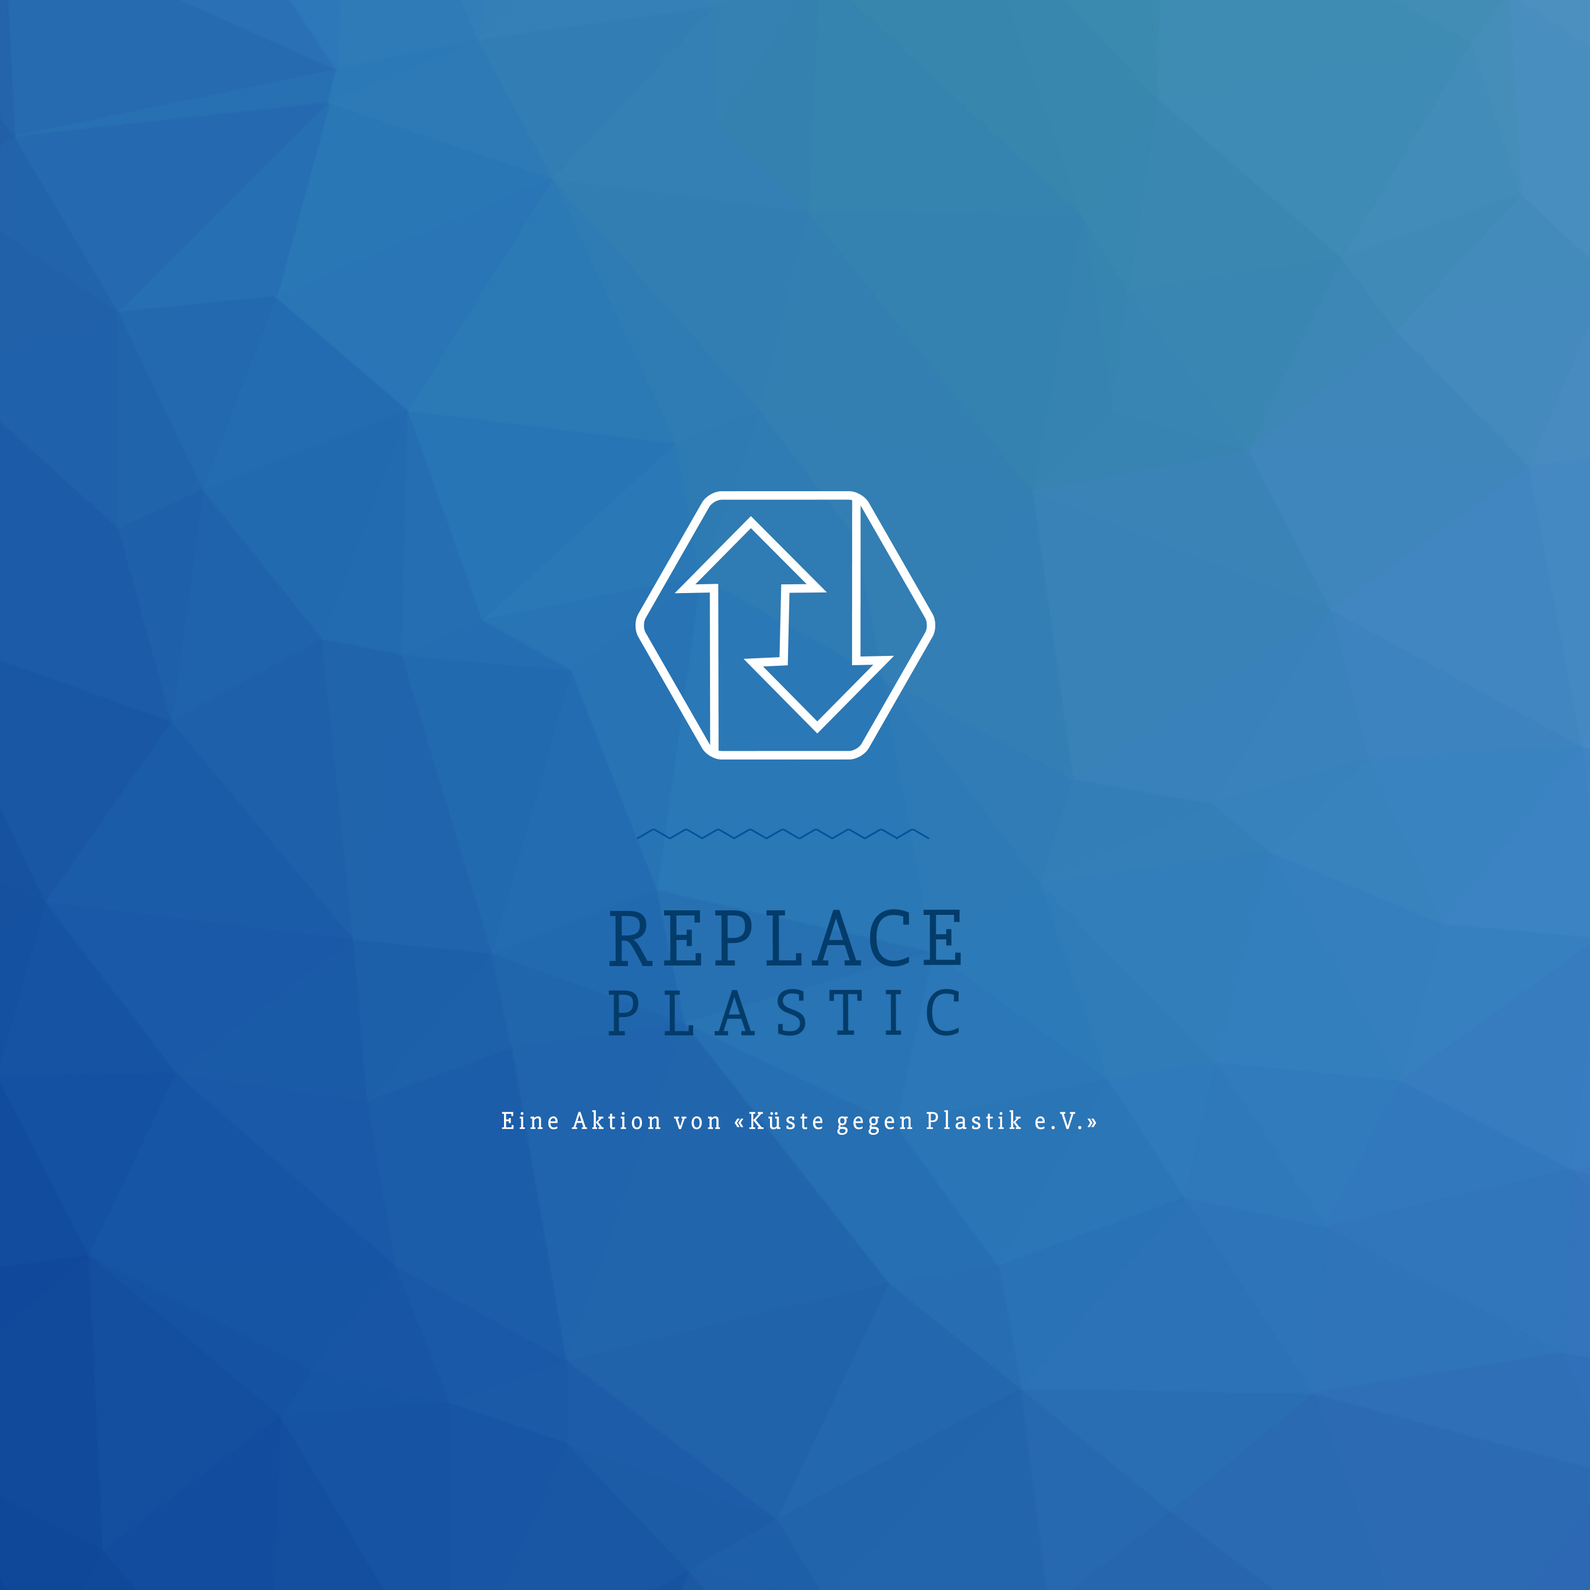
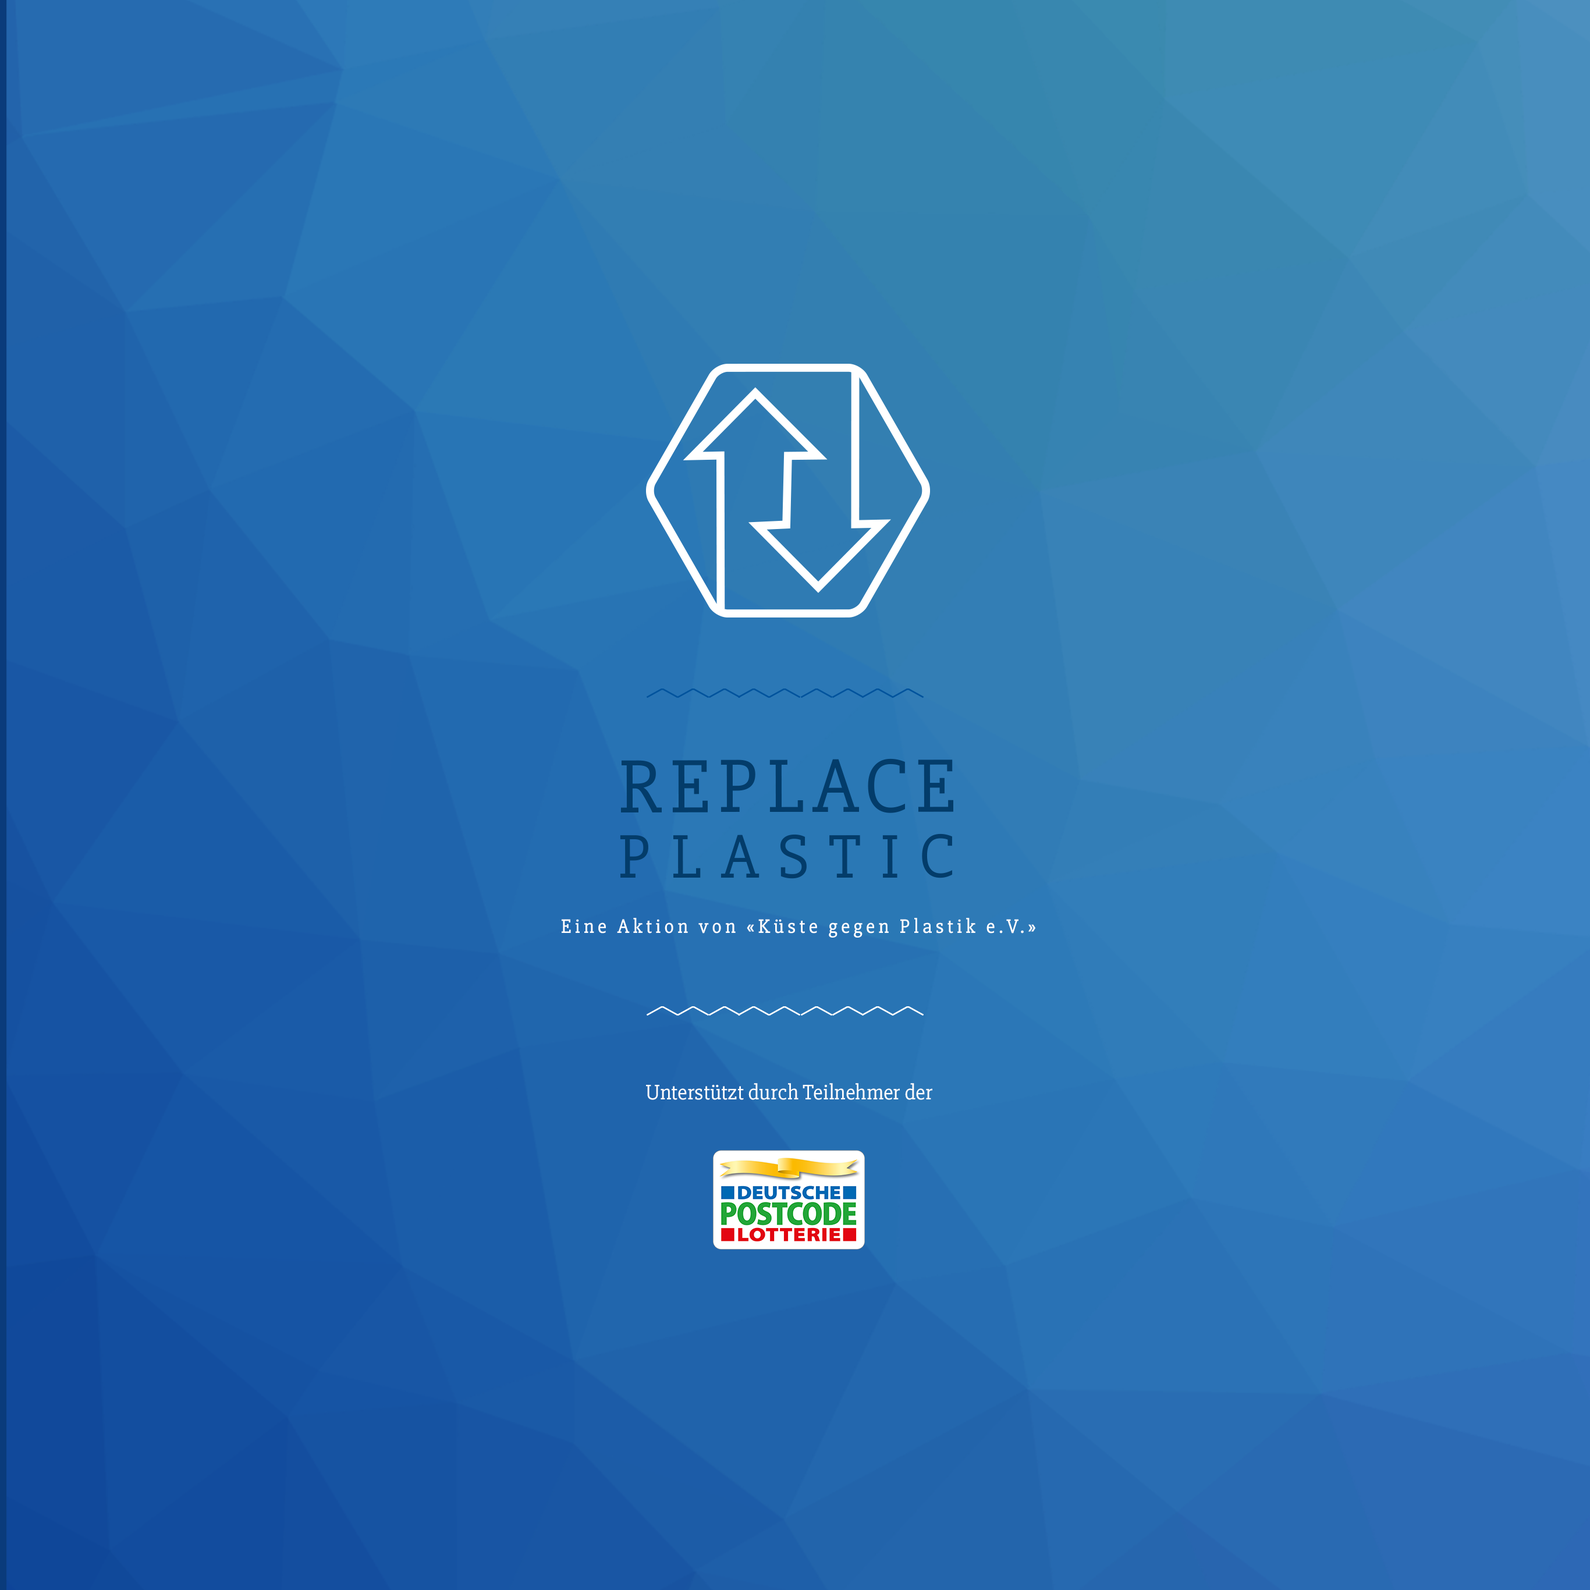
Postcode Lotterie Danksagung, Bugfixes

Changed region(s): [[0.3734, 0.2178, 0.6223, 0.6534], [0.0, 0.0, 0.0311, 1.0], [0.3734, 0.6845, 0.5911, 0.8089]]

diff --git a/public/js/SocialSharing.js b/public/js/SocialSharing.js
@@ -1,0 +1,146 @@
+function SocialSharing() {
+} 
+
+// Override this method (after deviceready) to set the location where you want the iPad popup arrow to appear.
+// If not overridden with different values, the popup is not used. Example:
+// 
+//   window.plugins.socialsharing.iPadPopupCoordinates = function() {
+//     return "100,100,200,300";
+//   };
+SocialSharing.prototype.iPadPopupCoordinates = function () {
+  // left,top,width,height
+  return "-1,-1,-1,-1";
+};
+
+SocialSharing.prototype.setIPadPopupCoordinates = function (coords) {
+  // left,top,width,height
+  cordova.exec(function() {}, this._getErrorCallback(function() {}, "setIPadPopupCoordinates"), "SocialSharing", "setIPadPopupCoordinates", [coords]);
+};
+
+SocialSharing.prototype.available = function (callback) {
+  cordova.exec(function (avail) {
+    callback(avail ? true : false);
+  }, null, "SocialSharing", "available", []);
+};
+
+// this is the recommended way to share as it is the most feature-rich with respect to what you pass in and get back
+SocialSharing.prototype.shareWithOptions = function (options, successCallback, errorCallback) {
+  cordova.exec(successCallback, this._getErrorCallback(errorCallback, "shareWithOptions"), "SocialSharing", "shareWithOptions", [options]);
+};
+
+SocialSharing.prototype.shareW3C = function (sharedata) {
+  return new Promise(function(resolve, reject) {
+    var options = {
+      subject: sharedata.title,
+      message: sharedata.text,
+      url: sharedata.url
+    };
+    if(sharedata.hasOwnProperty('title') ||
+        sharedata.hasOwnProperty('text') ||
+        sharedata.hasOwnProperty('url')) {
+          cordova.exec(resolve, reject, "SocialSharing", "shareWithOptions", [options]);
+    } else {
+      reject();
+    }
+  });
+};
+
+SocialSharing.prototype.share = function (message, subject, fileOrFileArray, url, successCallback, errorCallback) {
+  cordova.exec(successCallback, this._getErrorCallback(errorCallback, "share"), "SocialSharing", "share", [message, subject, this._asArray(fileOrFileArray), url]);
+};
+
+SocialSharing.prototype.shareViaTwitter = function (message, file /* multiple not allowed by twitter */, url, successCallback, errorCallback) {
+  var fileArray = this._asArray(file);
+  var ecb = this._getErrorCallback(errorCallback, "shareViaTwitter");
+  if (fileArray.length > 1) {
+    ecb("shareViaTwitter supports max one file");
+  } else {
+    cordova.exec(successCallback, ecb, "SocialSharing", "shareViaTwitter", [message, null, fileArray, url]);
+  }
+};
+
+SocialSharing.prototype.shareViaFacebook = function (message, fileOrFileArray, url, successCallback, errorCallback) {
+  cordova.exec(successCallback, this._getErrorCallback(errorCallback, "shareViaFacebook"), "SocialSharing", "shareViaFacebook", [message, null, this._asArray(fileOrFileArray), url]);
+};
+
+SocialSharing.prototype.shareViaFacebookWithPasteMessageHint = function (message, fileOrFileArray, url, pasteMessageHint, successCallback, errorCallback) {
+  pasteMessageHint = pasteMessageHint || "If you like you can paste a message from your clipboard";
+  cordova.exec(successCallback, this._getErrorCallback(errorCallback, "shareViaFacebookWithPasteMessageHint"), "SocialSharing", "shareViaFacebookWithPasteMessageHint", [message, null, this._asArray(fileOrFileArray), url, pasteMessageHint]);
+};
+
+SocialSharing.prototype.shareViaWhatsApp = function (message, fileOrFileArray, url, successCallback, errorCallback) {
+  cordova.exec(successCallback, this._getErrorCallback(errorCallback, "shareViaWhatsApp"), "SocialSharing", "shareViaWhatsApp", [message, null, this._asArray(fileOrFileArray), url, null, null]);
+};
+
+SocialSharing.prototype.shareViaWhatsAppToReceiver = function (receiver, message, fileOrFileArray, url, successCallback, errorCallback) {
+  cordova.exec(successCallback, this._getErrorCallback(errorCallback, "shareViaWhatsAppToReceiver"), "SocialSharing", "shareViaWhatsApp", [message, null, this._asArray(fileOrFileArray), url, receiver, null]);
+};
+
+SocialSharing.prototype.shareViaWhatsAppToPhone = function (phone, message, fileOrFileArray, url, successCallback, errorCallback) {
+  cordova.exec(successCallback, this._getErrorCallback(errorCallback, "shareViaWhatsAppToPhone"), "SocialSharing", "shareViaWhatsApp", [message, null, this._asArray(fileOrFileArray), url, null, phone]);
+};
+
+SocialSharing.prototype.shareViaSMS = function (options, phonenumbers, successCallback, errorCallback) {
+  var opts = options;
+  if (typeof options === "string") {
+    opts = {"message":options}; // for backward compatibility as the options param used to be the message
+  }
+  cordova.exec(successCallback, this._getErrorCallback(errorCallback, "shareViaSMS"), "SocialSharing", "shareViaSMS", [opts, phonenumbers]);
+};
+
+SocialSharing.prototype.shareViaEmail = function (message, subject, toArray, ccArray, bccArray, fileOrFileArray, successCallback, errorCallback) {
+  cordova.exec(successCallback, this._getErrorCallback(errorCallback, "shareViaEmail"), "SocialSharing", "shareViaEmail", [message, subject, this._asArray(toArray), this._asArray(ccArray), this._asArray(bccArray), this._asArray(fileOrFileArray)]);
+};
+
+SocialSharing.prototype.canShareVia = function (via, message, subject, fileOrFileArray, url, successCallback, errorCallback) {
+  cordova.exec(successCallback, this._getErrorCallback(errorCallback, "canShareVia"), "SocialSharing", "canShareVia", [message, subject, this._asArray(fileOrFileArray), url, via]);
+};
+
+SocialSharing.prototype.canShareViaEmail = function (successCallback, errorCallback) {
+  cordova.exec(successCallback, this._getErrorCallback(errorCallback, "canShareViaEmail"), "SocialSharing", "canShareViaEmail", []);
+};
+
+SocialSharing.prototype.shareViaInstagram = function (message, fileOrFileArray, successCallback, errorCallback) {
+  cordova.exec(successCallback, this._getErrorCallback(errorCallback, "shareViaInstagram"), "SocialSharing", "shareViaInstagram", [message, null, this._asArray(fileOrFileArray), null]);
+};
+
+SocialSharing.prototype.shareVia = function (via, message, subject, fileOrFileArray, url, successCallback, errorCallback) {
+  cordova.exec(successCallback, this._getErrorCallback(errorCallback, "shareVia"), "SocialSharing", "shareVia", [message, subject, this._asArray(fileOrFileArray), url, via]);
+};
+
+SocialSharing.prototype.saveToPhotoAlbum = function (fileOrFileArray, successCallback, errorCallback) {
+  cordova.exec(successCallback, this._getErrorCallback(errorCallback, "saveToPhotoAlbum"), "SocialSharing", "saveToPhotoAlbum", [this._asArray(fileOrFileArray)]);
+};
+
+SocialSharing.prototype._asArray = function (param) {
+  if (param == null) {
+    param = [];
+  } else if (typeof param === 'string') {
+    param = new Array(param);
+  }
+  return param;
+};
+
+SocialSharing.prototype._getErrorCallback = function (ecb, functionName) {
+  if (typeof ecb === 'function') {
+    return ecb;
+  } else {
+    return function (result) {
+      console.log("The injected error callback of '" + functionName + "' received: " + JSON.stringify(result));
+    }
+  }
+};
+
+SocialSharing.install = function () {
+  if (!window.plugins) {
+    window.plugins = {};
+  }
+
+  window.plugins.socialsharing = new SocialSharing();
+  navigator.share = window.plugins.socialsharing.shareW3C;
+  return window.plugins.socialsharing;
+};
+
+if(typeof cordova !== 'undefined') {
+    cordova.addConstructor(SocialSharing.install);
+}

diff --git a/src/components/shared/KgpHeader/KgpMenu/KgpMenu.vue b/src/components/shared/KgpHeader/KgpMenu/KgpMenu.vue
@@ -13,12 +13,21 @@
     </button>
     <div v-bind:class="{ 'menu__items--open' : menuOpen }" id="menu__items" class="menu__items">
         <ul class="menu__nav">
-            <li v-for="menuitem in menuitems"  v-on:click="closeMenu" class="menu__item">
+            <li v-for="menuitem in menuitems" v-bind:key="menuitem.title" v-on:click="closeMenu" class="menu__item">
                 <router-link class="menu__link" v-bind:to="{ name : menuitem.name }">
                     {{ menuitem.title }} <span class="menu__counter" v-if="menuitem.name == 'History' && historyCount > 0">{{ historyCount }}</span>
                 </router-link>
             </li>
         </ul>
+        <button v-if="isApp()" v-on:click="share()" class="menu__share">
+            <span class="menu__shareinner">
+                <svg xmlns="http://www.w3.org/2000/svg" xmlns:xlink="http://www.w3.org/1999/xlink" viewBox="0 0 100 125" version="1.1" x="0px" y="0px">
+                    <g stroke="none" stroke-width="1" fill="none" fill-rule="evenodd"><path d="M65.63645,75.10205 C61.86695,75.10205 58.80095,72.03555 58.80095,68.26605 C58.80095,64.49705 61.86695,61.43055 65.63645,61.43055 C69.40595,61.43055 72.47245,64.49705 72.47245,68.26605 C72.47245,72.03555 69.40595,75.10205 65.63645,75.10205 M27.87795,51.18905 C27.87795,47.41955 30.94445,44.35305 34.71345,44.35305 C38.48295,44.35305 41.54945,47.41955 41.54945,51.18905 C41.54945,54.95805 38.48295,58.02455 34.71345,58.02455 C30.94445,58.02455 27.87795,54.95805 27.87795,51.18905 M65.63645,25.37805 C69.40595,25.37805 72.47245,28.44455 72.47245,32.21355 C72.47245,35.98305 69.40595,39.04955 65.63645,39.04955 C61.86695,39.04955 58.80095,35.98305 58.80095,32.21355 C58.80095,28.44455 61.86695,25.37805 65.63645,25.37805 M65.63645,55.05255 C61.47495,55.05255 57.75845,56.98855 55.33445,60.00505 L47.03545,55.95205 C47.60945,54.47305 47.92745,52.86805 47.92745,51.18905 C47.92745,49.45905 47.58995,47.80755 46.98245,46.29155 L56.09445,41.34005 C58.50145,43.85555 61.88795,45.42705 65.63645,45.42705 C72.92245,45.42705 78.85045,39.49955 78.85045,32.21355 C78.85045,24.92755 72.92245,19.00005 65.63645,19.00005 C58.35045,19.00005 52.42295,24.92755 52.42295,32.21355 C52.42295,33.45805 52.59945,34.66205 52.92295,35.80455 L43.21295,41.08205 C40.91345,39.14505 37.94845,37.97505 34.71345,37.97505 C27.42745,37.97505 21.49995,43.90305 21.49995,51.18905 C21.49995,58.47455 27.42745,64.40255 34.71345,64.40255 C37.98745,64.40255 40.98495,63.20305 43.29545,61.22355 L52.65795,65.79605 C52.50545,66.59655 52.42295,67.42205 52.42295,68.26605 C52.42295,75.55205 58.35045,81.48005 65.63645,81.48005 C72.92245,81.48005 78.85045,75.55205 78.85045,68.26605 C78.85045,60.98055 72.92245,55.05255 65.63645,55.05255" fill="#004d8e"/>
+                    </g>
+                </svg>
+                ReplacePlastic teilen
+            </span>
+        </button>
     </div>
   </div>
 </template>
@@ -58,6 +67,18 @@ export default {
         };
     },
     methods: {
+        isApp() {
+            return process.env.BUILD_OS !== 'web';
+        },  
+        share() {
+            if(typeof window.plugins !== 'undefined') {
+                window.plugins.socialsharing.shareWithOptions({
+                    message: 'Mit dieser App wollen wir den Herstellern von Produkten sagen, dass wir uns andere Verpackungen wünschen. Damit sie endlich anfangen, beim Produktdesign auf umweltverträgliche Verpackungen zu achten und die Entwicklung von abbaubaren Materialien voranzutreiben.',
+                    subject: 'Sieh dir die App ReplacePlastic an!',
+                    url: 'https://www.replaceplastic.de',
+                });
+            }
+        },
         toggleMenu() {
             if(!this.menuOpen) {
                 // save the last state to jump back there later on
@@ -220,6 +241,32 @@ export default {
     &--open {
       transform: translate3d(0%,0,0);
     }
+  }
+  &__share {
+      display: block;
+      width: 80%;
+      margin: 40px 10%;
+      text-align: center;
+      padding: 20px;
+      background: rgba(255,255,255,.6);
+      border: none;
+      color: #fff;
+      font-family: 'Slabo 27px', sans-serif;
+      text-transform: uppercase;
+      border-radius: 5px;
+      color: #004d8e;
+      @include fluid-type(16px, 22px);
+      svg {
+          height: 40px;
+          width: 40px;
+          position: absolute;
+          left: 0;
+          top: -5px;
+      }
+      &inner {
+          position: relative;
+          padding-left: 40px;
+      }
   }
   &__nav {
     border-top: 1px solid #fff;

diff --git a/src/components/shared/KgpStatistics/KgpStatistics.vue b/src/components/shared/KgpStatistics/KgpStatistics.vue
@@ -29,6 +29,9 @@
                 <h2 class="headline headline--secondary headline--centered">Kürzlich versandte Mails</h2>
                 <kgp-latest-mails :mails="mails_details"></kgp-latest-mails>
             </div>
+            <div v-if="loading" class="stats-loading">
+                <bounce-loader :loading="loading" color="#fff"></bounce-loader>
+            </div>
         </div>
     </div>
 </template>
@@ -40,6 +43,7 @@ import KgpDoughnut from './charts/KgpDoughnut/KgpDoughnut'
 import KgpWordCloud from './KgpWordCloud/KgpWordCloud'
 import KgpLatestProducts from './KgpLatestProducts/KgpLatestProducts'
 import KgpLatestMails from './KgpLatestMails/KgpLatestMails'
+import BounceLoader from 'vue-spinner/src/BounceLoader';
 import { handleError } from '@/mixins/handleError'
 
 export default {
@@ -53,6 +57,7 @@ export default {
             latest_products: [],
             mails_details: [],
             top_vendors: null,
+            loading: true,
             chartOptions: {
                 legend: {
                     position: 'bottom',
@@ -81,21 +86,42 @@ export default {
             this.vendor_count = res.vendor_count;
             this.top_vendors = res.top_vendors.slice(0,15);
             this.latest_products = res.latest_products && res.latest_products.length ? res.latest_products.slice(0,5) : [];
-            this.mails_details = res.mails_details && res.mails_details.length ? res.mails_details.slice(0,5) : [];
-        }).catch( err => this.handleError(err) );
+            this.mails_details = res.mails_details && res.mails_details.length ? res.mails_details.slice(0,5) : []; 
+            this.loading = false;
+        }).catch( err => {
+            this.handleError(err) 
+            this.loading = false;
+        });
     },
     components: {
         KgpDoughnut,
         KgpLatestProducts,
         KgpTotalNumbers,
         KgpLatestMails,
-        KgpWordCloud
+        KgpWordCloud,
+        BounceLoader
     },
     mixins:[handleError]
 };
 </script>
 <style>
+.kgp-statistics {
+    position: relative;
+}
 .stats-container {
     margin-bottom: 40px;
+}
+.stats-loading {
+    position: absolute;
+    left: 0;
+    top: 0;
+    bottom: 0;
+    right: 0;
+    width: 100%;
+    height: 100%;
+    background-color: rgba(255,255,255,.2);
+    display: flex;
+    align-items: center;
+    justify-content: center;
 }
 </style>

diff --git a/src/config/constants.js b/src/config/constants.js
@@ -8,5 +8,5 @@ export const errors = {
     code_401: 'es gab Schwierigkeiten bei der Anmeldung am Server. Bitte versuche es erneut.',
 }
 export const messages = {
-    empty_product: '<h1 class="headline headline--primary">Unterstützung nötig!</h1><p>Dieses Produkt wurde bereits einmal eingesendet, wir konnten aber noch  nicht herausfinden, worum es sich handelt. Du kannst uns helfen, indem du uns Informationen darüber per E-Mail an <a href="mailto:replaceplastic@kueste-gegen-plastik.de">replaceplastic@kueste-gegen-plastik.de</a> sendest. Wir benötigen ein Foto vom Barcode, vom Produktnamen und die Angabe, in welchem Supermarkt du es gefunden hast. Dann können wir die Daten ergänzen.</p>'
+    empty_product: '<h1 class="headline headline--primary">Unterstützung nötig!</h1><p>Dieses Produkt wurde bereits einmal eingesendet, wir konnten aber noch  nicht herausfinden, worum es sich handelt. Du kannst uns helfen, indem du uns Informationen darüber per E-Mail an <a href="mailto:post@kueste-gegen-plastik.de">post@kueste-gegen-plastik.de</a> sendest. Wir benötigen ein Foto vom Barcode, vom Produktnamen und die Angabe, in welchem Supermarkt du es gefunden hast. Dann können wir die Daten ergänzen.</p>'
 }

diff --git a/src/components/views/Content/KgpImprint.vue b/src/components/views/Content/KgpImprint.vue
@@ -114,6 +114,7 @@
                     <li><a href="https://thenounproject.com/search/?q=postcards&i=1080191">"postcard" by artworkbean from the Noun Project</a></li>
                     <li><a href="https://thenounproject.com/search/?q=envelope&i=1071783">"envelope" by Icon Depot from the Noun Project</a></li>
                     <li><a href="https://thenounproject.com/search/?q=factory&i=1778310">Factory Building by iconsphere from the Noun Project</a></li>
+                    <li><a href="https://thenounproject.com/search/?q=share&i=1973669">Share by Remco Homberg from the Noun Project</a></li>
                 </ul>
 
             </div>
@@ -139,6 +140,10 @@ export default {
     }
     p, ul {
         @include fluid-type(14px, 20px);
+    }
+    img {
+        max-width: 100%;
+        height: auto;
     }
 }
 </style>

diff --git a/public/index.html b/public/index.html
@@ -14,6 +14,11 @@
       document.head.appendChild(crdva);
     </script>
     <script>
+      var crdva = document.createElement('script');
+      crdva.setAttribute('src','./js/SocialSharing.js');
+      document.head.appendChild(crdva);
+    </script>
+    <script>
       document.addEventListener("deviceready", function() {
           if(typeof window.LaunchScreen !== 'undefined') {
               window.LaunchScreen.hide();

diff --git a/src/components/shared/KgpNagscreen/KgpNagscreen.vue b/src/components/shared/KgpNagscreen/KgpNagscreen.vue
@@ -89,11 +89,11 @@ export default {
     &__inner {
         position: fixed;
         text-align: center;
-        left: 10vw;
+        left: 0;
         top: 10vh;
         box-sizing: border-box;
-        width: 80vw;
-        height: 80vh;
+        width: 100vw;
+        height: 90vh;
         background: url('../../../KgpApp.png') center center no-repeat;
         background-size: cover;
         padding: 10vh 4vw;

diff --git a/src/KgpApp.vue b/src/KgpApp.vue
@@ -209,7 +209,6 @@ body {
     overflow: hidden;
     overflow-y: auto;
     margin-top: 2vh;
-    height: 84vh;
     @include bp(medium) {
         overflow: visible;
         overflow-y: visible;
@@ -224,7 +223,7 @@ body {
     }
     &__inner {
         margin: 4vw;
-        padding: 0 2vw 30px 2vw;
+        padding: 0 4vw 30px 4vw;
         max-width: 980px;
         margin: 4vw auto;
         @include bp(medium) {

diff --git a/src/components/views/Content/KgpThankYou.vue b/src/components/views/Content/KgpThankYou.vue
@@ -21,6 +21,10 @@
                 <p>
                     Wir danken: Tanja Lücker, Stephan Schakulat, Mike Schindler, Klara Aylin Wenten.
                 </p>
+                <p>Unterstützt durch Teilnehmer der:</p>
+                <p>
+                    <img src="img/dpl_logo.png" alt="Deutsche Postcode Lotterie" />
+                </p>
             </div>
         </div>
     </div>
